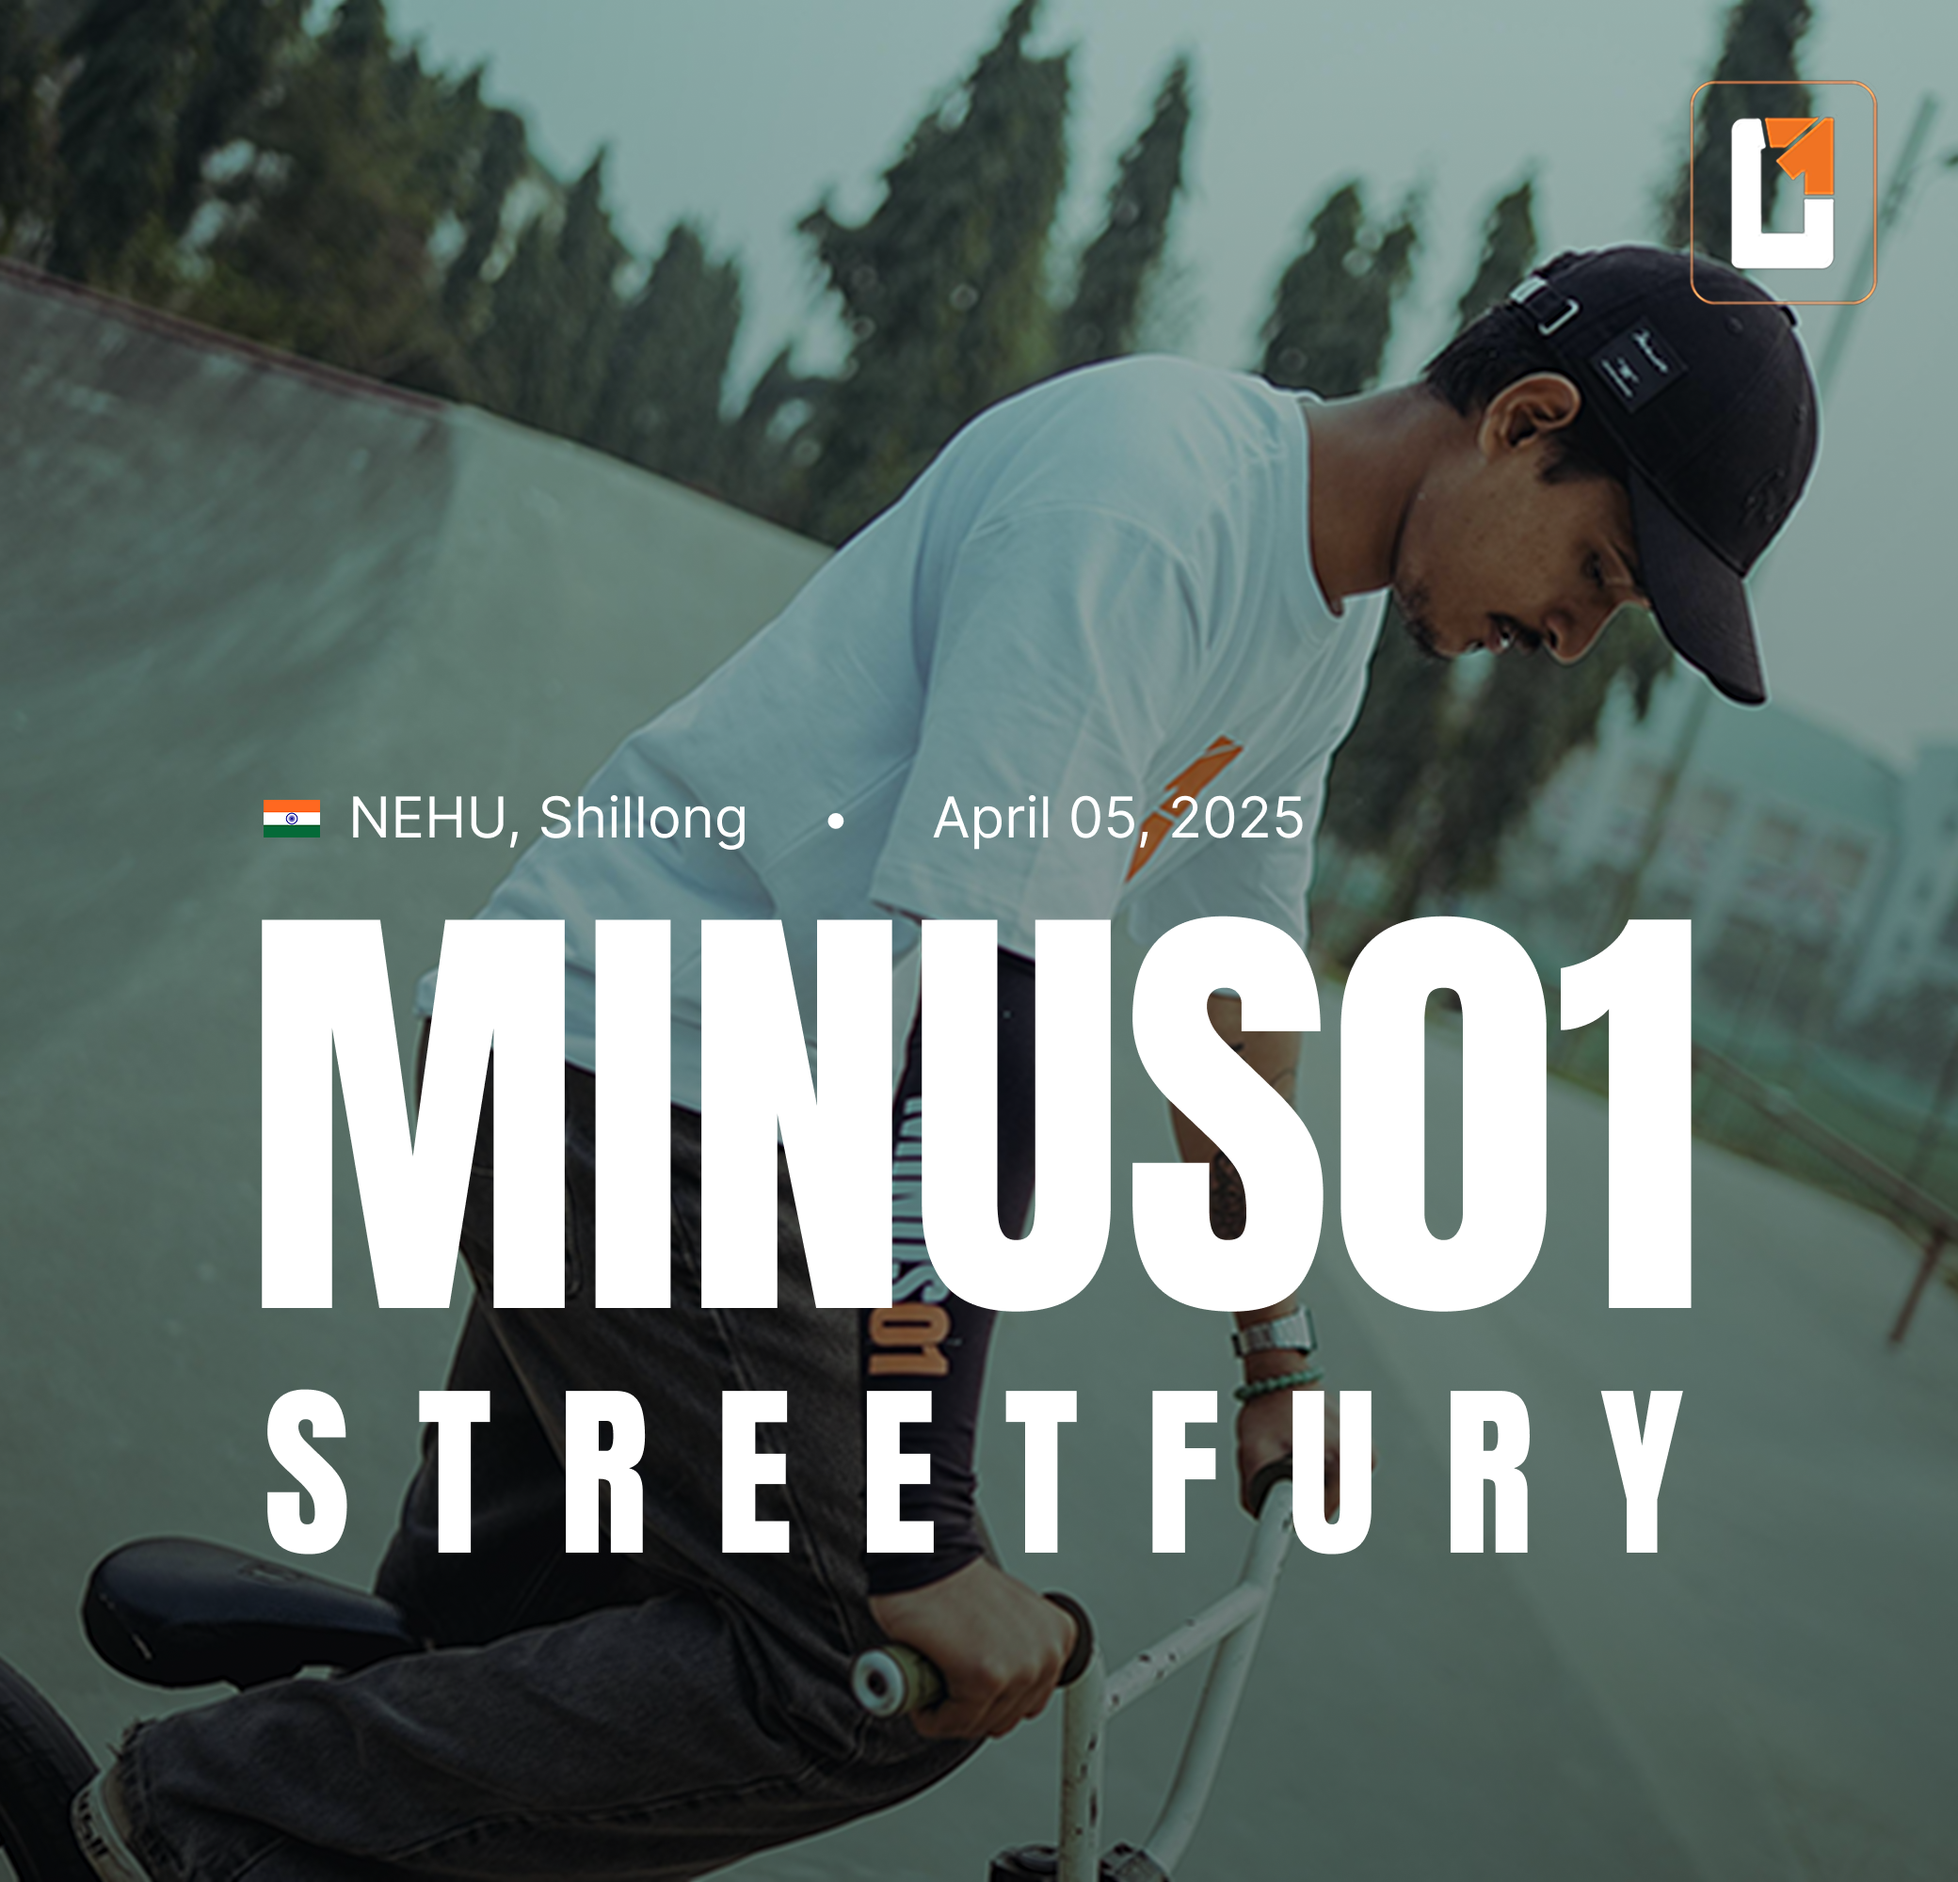
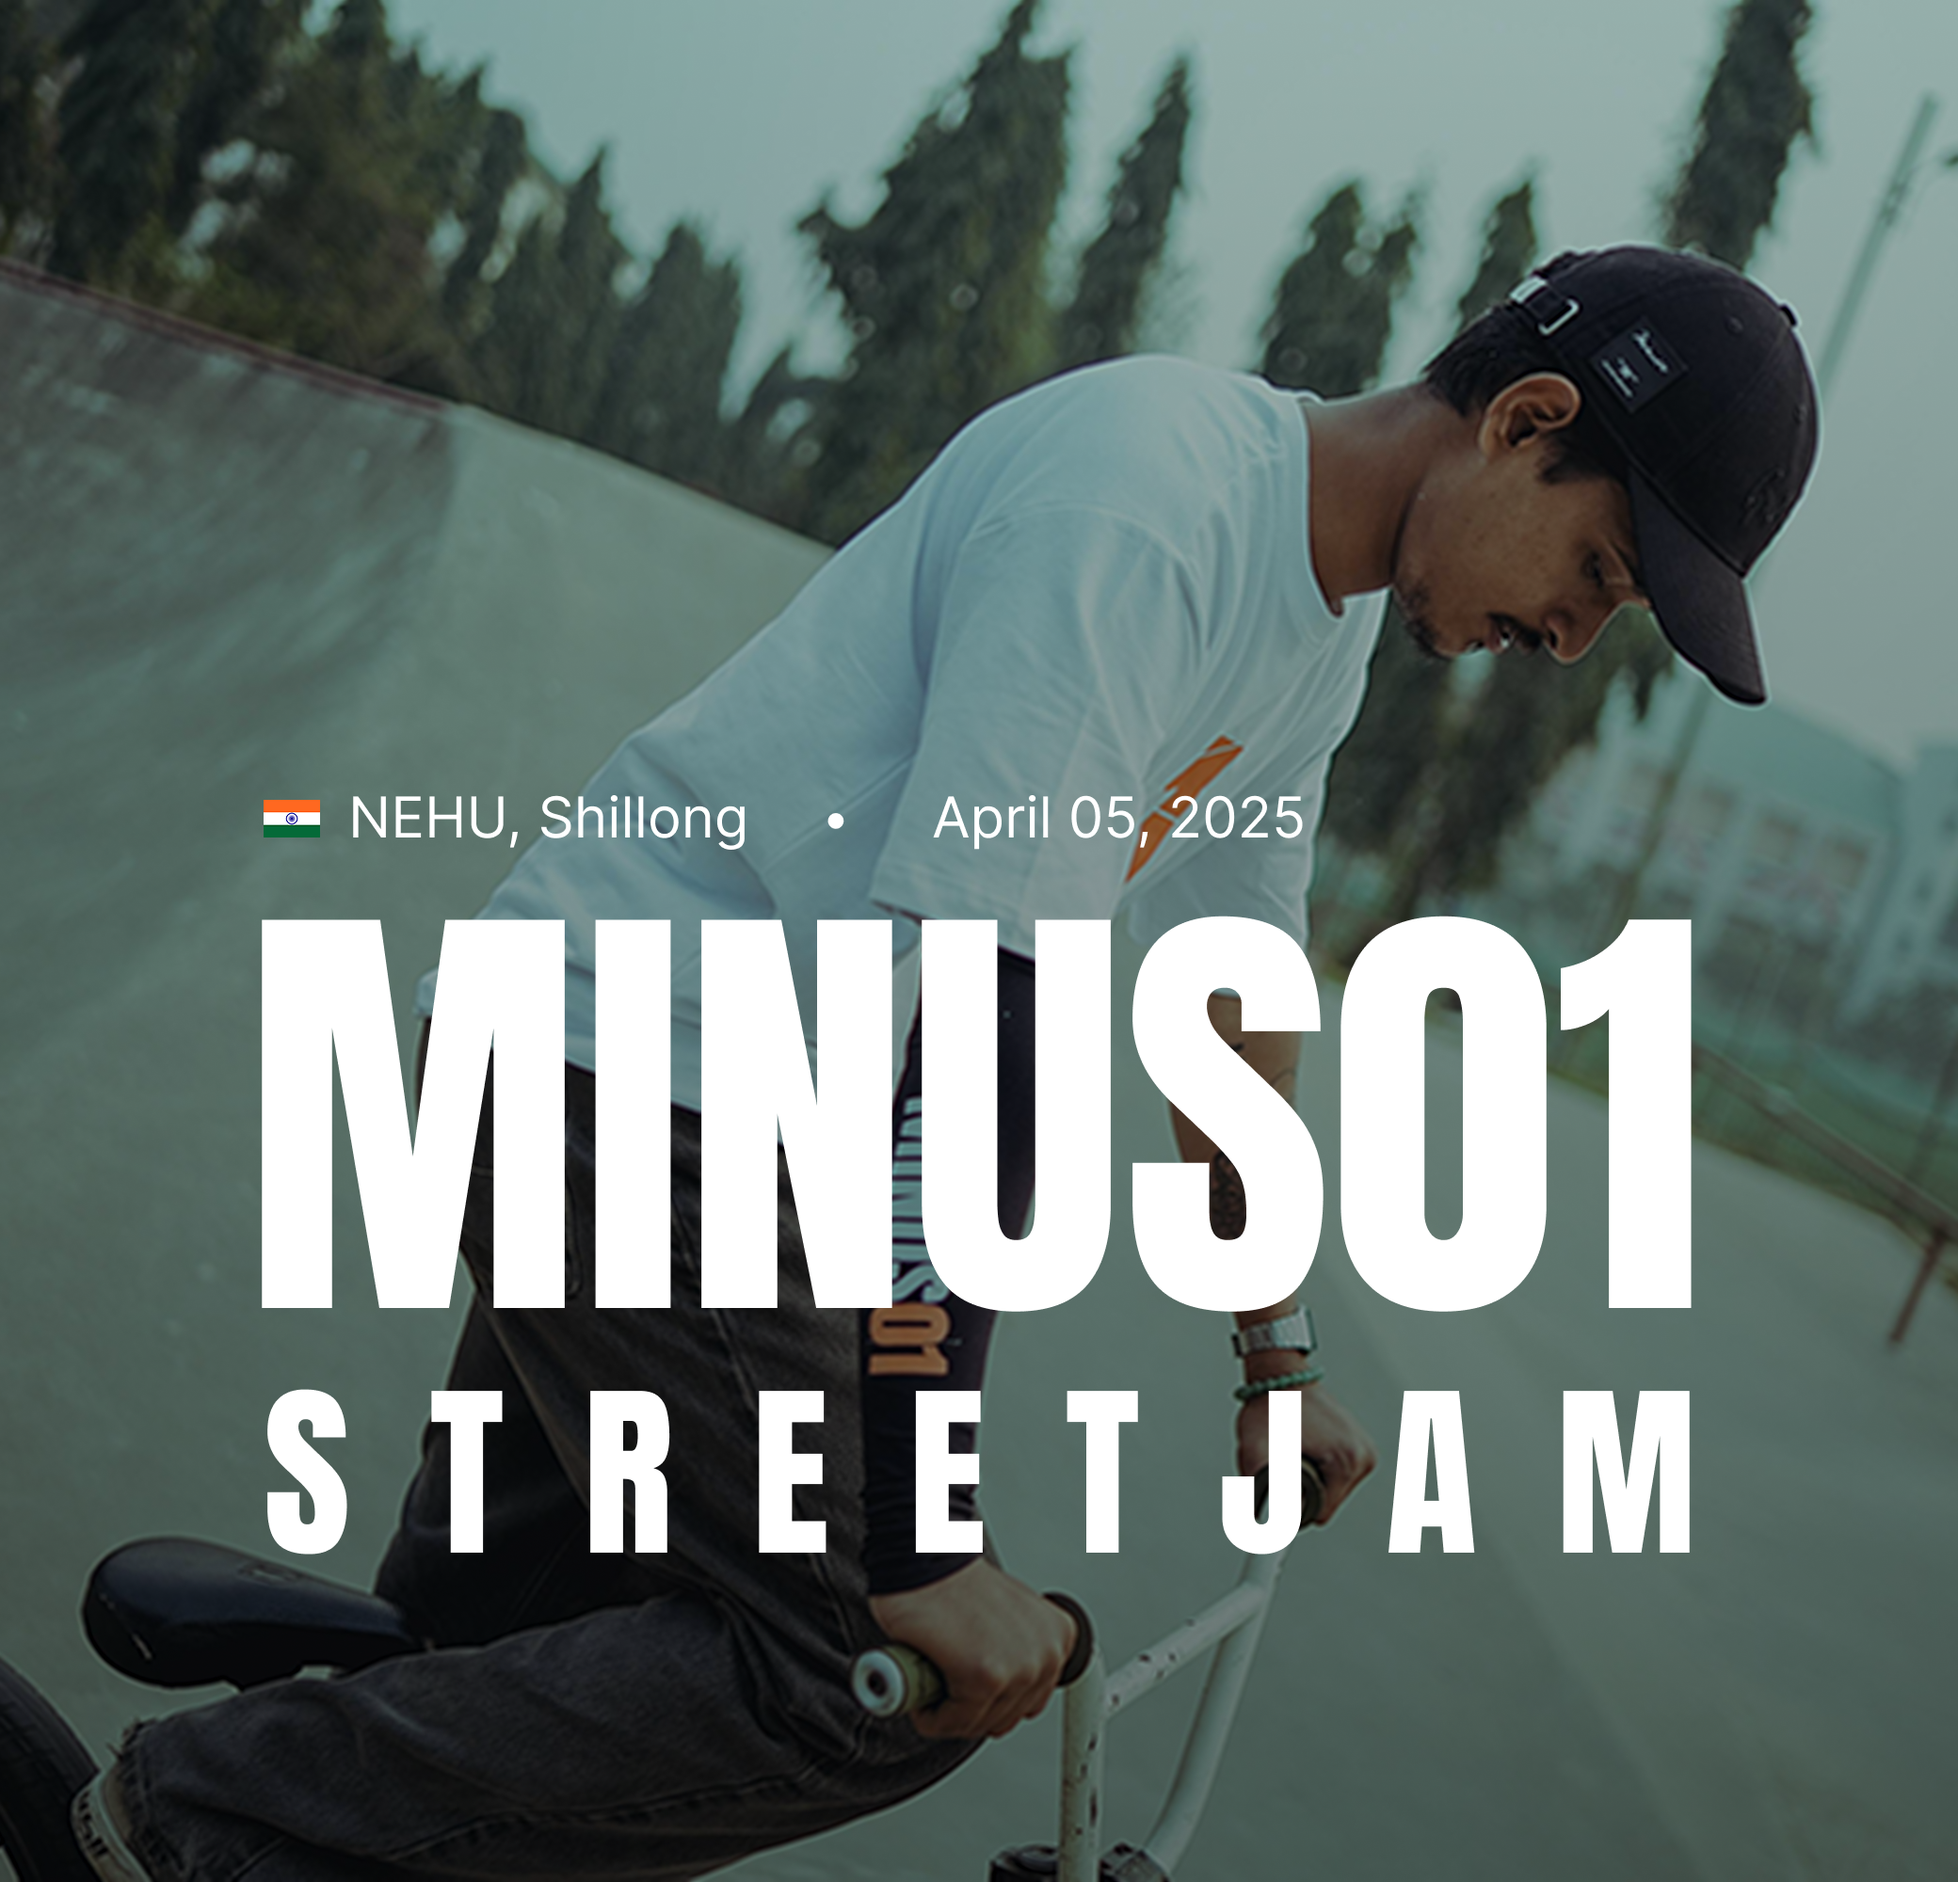
Changes with Washim

Changed region(s): [[0.2812, 0.713, 0.875, 0.837], [0.875, 0.062, 0.9375, 0.155], [0.2188, 0.744, 0.25, 0.837]]

diff --git a/src/app/components/Navbar.tsx b/src/app/components/Navbar.tsx
@@ -11,6 +11,7 @@ import { FC } from 'react';
 import profileimg from "../../../public/profile_white.png";
 import PersonIcon from '@mui/icons-material/Person';
 import logo_wordmark from "../../../public/Logo/Logo_wordmark.svg";
+import img_removebg_black from "../../../public/Logo/img-removebg-black.png";
 
 //Fonts
 import { Bree_Serif, Bungee, Racing_Sans_One } from 'next/font/google';
@@ -45,7 +46,16 @@ const Navbar: FC = () => {
       <div className="md:max-w-full max-w-7xl mx-auto flex justify-between items-center">
         <Link href="/" className={`text-2xl font-anton`}>
           <div className="flex flex-row gap-2 justify-center items-center">
-            <p className="font-thin text-4xl">MINUS01</p>
+            <p className="font-thin text-4xl">
+              <Image 
+                src={img_removebg_black}
+                alt="Minus01 logo"
+                height="0"
+                width="0"
+                sizes="100svw"
+                className="h-16 w-auto ml-5"
+              />
+            </p>
           </div>
         </Link>
 

diff --git a/src/app/register/layout.js b/src/app/register/layout.js
@@ -44,7 +44,7 @@ export default function RegistrationRootLayout({ children }) {
                             className='aspect-square h-40 object-cover w-auto shadow-lg rounded-lg'
                         />
                         <div className='space-y-3 font-medium'>
-                            <p className='text-xl font-anton font-thin'>MINUS01 x STREETFURY</p>
+                            <p className='text-xl font-anton font-thin'>MINUS01 STREETJAM</p>
                             <p><b>Venue</b> : NEHU, Shillong, IN</p>
                             <p><b>Date</b> : 05 April, 2025</p>
                         </div>

diff --git a/src/app/register/additional/page.js b/src/app/register/additional/page.js
@@ -158,7 +158,7 @@ const AdditionalDataPage = () => {
   return (
     <div className='min-h-screen bg-white md:pl-60 md:pr-10 px-10 py-20'>
       {isLoading && <Loading />}
-      <h1 className='md:text-5xl text-2xl font-anton'>Additional Information</h1>
+      <h1 className='md:text-5xl text-2xl font-anton uppercase'>Additional Information</h1>
       <div className='py-10 '>
         <form onSubmit={handleSubmit} className="space-y-4">
           <div>

diff --git a/src/app/register/personal/page.js b/src/app/register/personal/page.js
@@ -252,7 +252,7 @@ const PersonalDataPage = () => {
     <div className='min-h-screen bg-white md:pl-60 md:pr-10 px-10 py-20 font-assistant'>
       {isLoading && <Loading />}
       <motion.h1
-        className='md:text-5xl text-2xl font-anton'
+        className='md:text-5xl text-2xl font-anton uppercase'
         initial={{ opacity: 0, y: -20 }}
         animate={{ opacity: 1, y: 0 }}
         transition={{ duration: 0.5 }}

diff --git a/src/app/register/summary/page.js b/src/app/register/summary/page.js
@@ -149,7 +149,7 @@ const SummaryPage = () => {
       {isLoading && <Loading />}
       <div className=''>
         <motion.h1
-          className='md:text-5xl text-2xl font-anton'
+          className='md:text-5xl text-2xl font-anton uppercase'
           initial={{ opacity: 0, y: -20 }}
           animate={{ opacity: 1, y: 0 }}
           transition={{ duration: 0.5 }}
